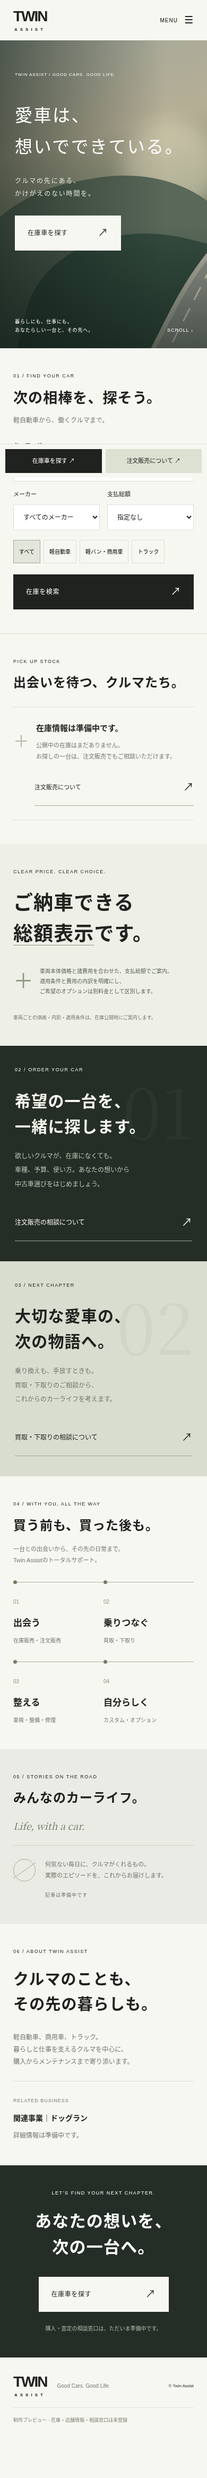
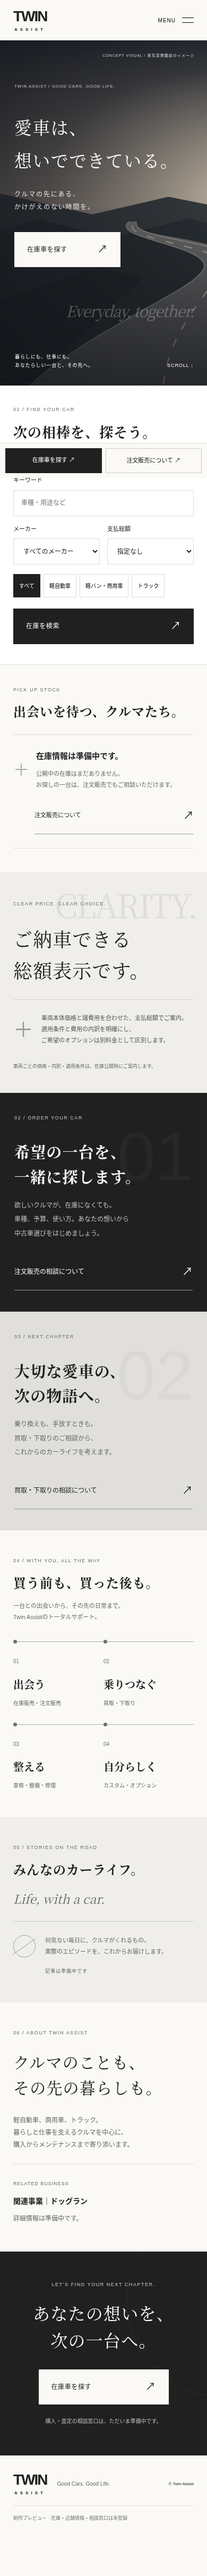
Refine homepage with monochrome editorial design

diff --git a/public/style.css b/public/style.css
@@ -1,1 +1,7 @@
-:root{--ink:#20221f;--paper:#f7f7f2;--muted:#72756d;--line:#dedfd6}*{box-sizing:border-box}html{scroll-behavior:smooth;scroll-padding-top:85px}body{margin:0;background:#e9eae3;color:var(--ink);font-family:'Helvetica Neue',Arial,'Noto Sans JP','Hiragino Kaku Gothic ProN',Meiryo,sans-serif;font-size:14px;line-height:1.9}a{color:inherit;text-decoration:none}button,input,select{font:inherit}button,a,input,select{touch-action:manipulation}button{cursor:pointer}button:focus-visible,a:focus-visible,input:focus-visible,select:focus-visible{outline:3px solid #778d67;outline-offset:5px}h1,h2,h3,p{margin:0}h2{font-size:32px;line-height:1.6;letter-spacing:.04em;font-weight:600}h3{font-size:17px;font-weight:600}p{color:var(--muted)}.site{max-width:1060px;margin:auto;background:var(--paper);position:relative}.side{position:fixed;top:0;bottom:0;width:calc((100vw - 1060px)/2);display:flex;align-items:center;justify-content:space-between;flex-direction:column;padding:45px 15px;color:#52584d}.left{left:0}.right{right:0}.side-brand{font-size:27px;letter-spacing:-2px;line-height:1}.side-brand span{display:block;letter-spacing:4px;font-size:9px;margin-top:9px}.vertical{writing-mode:vertical-rl;font-size:13px;letter-spacing:.24em}.side small{font-size:9px;letter-spacing:.13em;line-height:1.7}.side-link{writing-mode:vertical-rl;letter-spacing:.2em;font-size:12px}.right .vertical{font-size:10px;letter-spacing:.2em}header{height:88px;padding:0 44px;display:flex;align-items:center;gap:34px;background:var(--paper)}.logo{font-size:30px;letter-spacing:-2px;font-weight:750;line-height:1;display:inline-block}.logo span{display:block;font-size:8px;letter-spacing:5px;margin:7px 0 0 2px}header nav{display:flex;gap:23px;margin-left:auto;font-size:11px}.menu-button{border:0;background:none;display:flex;align-items:center;gap:12px;font-size:10px;letter-spacing:.1em;padding:12px 0}.menu-button span{font-size:19px}.menu{padding:20px 44px;background:#eceee6;display:flex;flex-wrap:wrap;gap:20px}.menu[hidden]{display:none}.hero{height:610px;position:relative;overflow:hidden;background:#333c36;color:white}.hero-art{position:absolute;inset:0;background:linear-gradient(170deg,#979d90 0%,#c1b7a0 35%,#777f6e 65%,#29382f 100%)}.hero-art:after{content:'';position:absolute;inset:0;background:linear-gradient(90deg,rgba(12,25,20,.56),transparent 80%),linear-gradient(0deg,rgba(12,25,20,.55),transparent 40%)}.sun{position:absolute;width:180px;height:180px;border-radius:50%;background:#ede4c6;filter:blur(18px);top:75px;right:14%;opacity:.45}.hill{position:absolute;width:140%;height:430px;left:-20%;top:260px;border-radius:48% 46% 0 0;background:#596859;transform:rotate(-10deg)}.hill-two{top:370px;left:10%;background:#344b3e;transform:rotate(14deg)}.road{position:absolute;bottom:-240px;right:15%;width:260px;height:570px;background:#92958c;border-radius:50% 50% 0 0;transform:rotate(27deg);box-shadow:0 0 0 9px #b5b2a2}.road-line{position:absolute;right:27%;bottom:-170px;width:3px;height:450px;background:linear-gradient(#e0d9c6 60%,transparent 60%);background-size:3px 45px;transform:rotate(27deg)}.hero-content{position:relative;z-index:1;padding:76px 65px}.eyebrow{font-size:10px;letter-spacing:.17em;font-weight:500;display:block;line-height:1.7}.hero h1{font-size:49px;line-height:1.65;letter-spacing:.07em;font-weight:500;margin:30px 0 24px}.hero p{color:#e1e6dd;font-size:14px;letter-spacing:.15em;line-height:2}.button{display:inline-flex;align-items:center;justify-content:space-between;gap:40px;padding:15px 24px;min-height:50px;border:0;font-size:12px;letter-spacing:.05em}.button span{font-size:19px;font-weight:400}.white{background:var(--paper);color:var(--ink)}.dark{background:var(--ink);color:white}.hero .button{margin-top:30px;min-width:220px}.hero-bottom{position:absolute;bottom:28px;left:65px;right:45px;display:flex;justify-content:space-between;align-items:end;font-size:10px;line-height:1.8;letter-spacing:.1em;z-index:1}.scroll{font-size:9px}.section{padding:65px}.section-heading h2{margin:13px 0 9px}.section-heading p{font-size:12px}.filters{display:grid;grid-template-columns:1.3fr 1fr 1fr;gap:20px;margin-top:30px}label{display:flex;flex-direction:column;gap:8px;font-size:11px}input,select{border:1px solid var(--line);background:white;border-radius:0;width:100%;height:49px;padding:0 14px;color:var(--ink);font-size:12px}.search-bottom{display:flex;align-items:center;justify-content:space-between;gap:16px;margin-top:20px}.chips{display:flex;gap:7px;flex-wrap:wrap}.chips button{background:none;border:1px solid var(--line);padding:9px 13px;font-size:10px;min-height:44px}.chips button[aria-pressed=true]{background:#e2e6db;border-color:#a1aa94}.result{margin-top:18px;background:#e9ece3;padding:14px;font-size:12px}.inventory{border-top:1px solid var(--line);padding-top:45px}.title-row{display:flex;justify-content:space-between;align-items:end;gap:24px}.title-row h2{margin-top:13px;font-size:28px}.tiny{font-size:9px;letter-spacing:.11em;color:var(--muted)}.empty-stock{display:flex;gap:24px;align-items:center;margin-top:35px;border-top:1px solid var(--line);border-bottom:1px solid var(--line);padding:35px 0}.empty-icon{font-size:40px;color:#b3b9a9;font-weight:200}.empty-stock p{font-size:12px;margin-top:8px}.text-link{display:flex;align-items:center;justify-content:space-between;gap:20px;font-size:12px;border:0;border-bottom:1px solid #a0a798;padding:15px 0;background:none;color:inherit}.empty-stock .text-link{margin-left:auto;white-space:nowrap}.text-link span{font-size:20px}.price{background:#eef0e7;position:relative;padding-top:65px;padding-bottom:55px}.price h2{font-size:49px;line-height:1.55;margin-top:20px;letter-spacing:.03em}.price h2 span{border-bottom:1px solid #8a927e}.price-text{display:flex;align-items:center;gap:30px;margin-top:28px;justify-content:flex-end}.price-text p{font-size:12px;color:#5d6457}.large-plus{font-size:55px;color:#8c9880;font-weight:200}.note{font-size:10px;line-height:1.8}.price .note{margin-top:25px}.consult-grid{display:grid;grid-template-columns:1fr 1fr}.consult{padding:48px 42px 42px;position:relative;overflow:hidden}.buy{background:#252e26;color:#f7f7ee}.sell{background:#d9ddcf}.consult h2{font-size:29px;margin:37px 0 18px;position:relative}.consult p{font-size:12px;line-height:2.2;position:relative}.buy p{color:#bdc5b6}.consult .text-link{margin-top:32px;width:100%;text-align:left}.consult-number{position:absolute;right:15px;top:55px;font-size:120px;line-height:1;font-family:Georgia,serif;color:#ffffff09}.sell .consult-number{color:#4e604310}.services .title-row p{font-size:11px}.timeline{display:grid;grid-template-columns:repeat(4,1fr);gap:0;margin-top:48px}.timeline article{border-top:1px solid #aab29e;position:relative;padding:24px 8px 0 0}.timeline article:before{content:'';width:7px;height:7px;position:absolute;top:-4px;left:0;background:#707e61;border-radius:50%}.timeline span{font-size:10px;color:#879377}.timeline h3{margin-top:12px}.timeline p{font-size:10px;margin-top:7px}.story{background:#e9ebe4}.story-sign{font-family:Georgia,serif;font-style:italic;font-size:22px;color:#6f7867}.story-empty{margin-top:35px;padding:35px 0;display:flex;gap:25px;align-items:center;border-top:1px solid #cdd2c4}.story-line{width:56px;height:56px;border:1px solid #a8b19a;border-radius:50%;position:relative;flex-shrink:0}.story-line:after{content:'';position:absolute;width:68px;height:1px;background:#a8b19a;left:-6px;top:27px;transform:rotate(-35deg)}.story-empty p{font-size:12px}.story-empty .tiny{margin-left:auto}.about h2{font-size:36px;margin:22px 0 28px}.about-columns{display:grid;grid-template-columns:1fr 1fr;gap:35px}.about-columns p{font-size:12px}.related{border-left:1px solid var(--line);padding-left:30px}.related h3{font-size:14px;margin:8px 0}.closing{background:#252e26;color:white;text-align:center;padding-top:70px;padding-bottom:65px}.closing h2{font-size:39px;margin:20px 0 30px}.closing .button{min-width:245px}.closing p{font-size:10px;color:#b0b9a7;margin-top:22px}footer{padding:38px 45px;display:flex;flex-wrap:wrap;align-items:center;gap:28px}footer p{font-size:12px}footer>span{font-size:9px;margin-left:auto}footer small{flex-basis:100%;font-size:9px;color:#777e70;border-top:1px solid var(--line);padding-top:15px}.mobile-cta{display:none}.skip{position:fixed;top:-80px;left:15px;z-index:20;background:white;padding:15px}.skip:focus{top:10px}dialog{border:0;padding:45px;max-width:480px;width:calc(100% - 36px);background:var(--paper);color:var(--ink)}dialog::backdrop{background:#162016aa}dialog h2{font-size:23px;margin:20px 0}dialog p{font-size:12px}dialog .note{margin:15px 0}dialog .button{margin-top:15px}.dialog-close{position:absolute;right:12px;top:8px;font-size:27px;border:0;background:none;width:44px;height:44px}a:hover,.text-link:hover{opacity:.75}.button:hover{opacity:.87}@media(max-width:1320px){.side{display:none}}@media(max-width:767px){body{background:var(--paper);font-size:13px}html{scroll-padding-top:25px}.site{width:100%}header{height:76px;padding:0 25px}.logo{font-size:28px}header nav{display:none}.menu-button{margin-left:auto}.menu{padding:22px 25px;flex-direction:column;gap:10px}.menu a{padding:8px 0}.hero{height:580px}.hero-content{padding:58px 28px}.hero .eyebrow{font-size:8px;letter-spacing:.12em}.hero h1{font-size:clamp(30px,8.5vw,42px);line-height:1.8;margin-top:40px;margin-bottom:22px}.hero p{font-size:12px}.hero .button{margin-top:29px;min-width:200px}.hero-bottom{left:28px;right:25px;bottom:26px;font-size:9px}.hero-art{background:linear-gradient(165deg,#a4a99b,#b5ae95 33%,#5b6c55 70%,#283e30)}.sun{right:-20px;top:150px}.road{right:-40%;bottom:-270px;width:230px;transform:rotate(27deg)}.road-line{right:8%;bottom:-150px}.section{padding:45px 25px}h2{font-size:26px}.eyebrow{font-size:9px}.section-heading h2{font-size:27px}.filters{grid-template-columns:1fr 1fr;gap:14px;margin-top:25px}.filters label:first-child{grid-column:1/-1}.search-bottom{flex-direction:column;align-items:stretch;margin-top:18px}.chips{gap:6px}.chips button{padding:8px 10px;font-size:10px}.search-bottom .button{width:100%;margin-top:5px}.title-row{align-items:start}.title-row h2{font-size:24px}.inventory .title-row>.tiny{display:none}.empty-stock{flex-wrap:wrap;gap:13px;padding:26px 0;margin-top:25px}.empty-icon{font-size:30px}.empty-stock h3{font-size:15px}.empty-stock p{font-size:11px}.empty-stock .text-link{margin-left:40px;width:calc(100% - 40px);font-size:11px}.price h2{font-size:37px;margin-top:23px}.price-text{gap:12px;justify-content:start;margin-top:24px}.large-plus{font-size:38px}.price-text p{font-size:10px}.price .note{font-size:9px}.consult-grid{grid-template-columns:1fr}.consult{padding:38px 28px}.consult h2{font-size:30px;margin-top:27px}.consult-number{right:25px;font-size:130px}.consult .text-link{margin-top:25px}.services .title-row{display:block}.services .title-row p{margin-top:15px}.timeline{grid-template-columns:1fr 1fr;row-gap:30px;margin-top:30px}.timeline h3{font-size:17px}.timeline p{font-size:10px}.story .title-row{display:block}.story-sign{font-size:18px;display:block;margin-top:15px}.story-empty{flex-wrap:wrap;gap:18px;padding:25px 0 0;margin-top:20px}.story-line{width:42px;height:42px}.story-line:after{width:52px;top:20px}.story-empty p{font-size:11px}.story-empty .tiny{width:100%;margin-left:60px}.about h2{font-size:29px}.about-columns{grid-template-columns:1fr;gap:25px}.related{border-left:0;border-top:1px solid var(--line);padding:23px 0 0}.closing h2{font-size:31px}footer{padding:32px 25px 100px;gap:19px}footer p{font-size:10px}footer>span{font-size:8px}.mobile-cta{position:fixed;bottom:0;left:0;right:0;display:grid;grid-template-columns:1fr 1fr;background:var(--paper);padding:9px 10px calc(9px + env(safe-area-inset-bottom));z-index:5;border-top:1px solid var(--line);gap:7px}.mobile-cta a{text-align:center;font-size:11px;padding:12px 5px;background:var(--ink);color:white}.mobile-cta a+ a{background:#dce1d2;color:var(--ink)}dialog{padding:35px 25px}}@media(prefers-reduced-motion:reduce){html{scroll-behavior:auto}}
+:root{--ink:#202020;--paper:#faf9f6;--muted:#666666;--line:#dddcd8}*{box-sizing:border-box}html{scroll-behavior:smooth;scroll-padding-top:85px}body{margin:0;background:#ededeb;color:var(--ink);font-family:'Helvetica Neue',Arial,'Noto Sans JP','Hiragino Kaku Gothic ProN',Meiryo,sans-serif;font-size:14px;line-height:1.9}a{color:inherit;text-decoration:none}button,input,select{font:inherit}button,a,input,select{touch-action:manipulation}button{cursor:pointer}button:focus-visible,a:focus-visible,input:focus-visible,select:focus-visible{outline:3px solid #707070;outline-offset:5px}h1,h2,h3,p{margin:0}h2{font-size:32px;line-height:1.6;letter-spacing:.04em;font-weight:600}h3{font-size:17px;font-weight:600}p{color:var(--muted)}.site{max-width:1060px;margin:auto;background:var(--paper);position:relative}.side{position:fixed;top:0;bottom:0;width:calc((100vw - 1060px)/2);display:flex;align-items:center;justify-content:space-between;flex-direction:column;padding:45px 15px;color:#595959}.left{left:0}.right{right:0}.side-brand{font-size:27px;letter-spacing:-2px;line-height:1}.side-brand span{display:block;letter-spacing:4px;font-size:9px;margin-top:9px}.vertical{writing-mode:vertical-rl;font-size:13px;letter-spacing:.24em}.side small{font-size:9px;letter-spacing:.13em;line-height:1.7}.side-link{writing-mode:vertical-rl;letter-spacing:.2em;font-size:12px}.right .vertical{font-size:10px;letter-spacing:.2em}header{height:88px;padding:0 44px;display:flex;align-items:center;gap:34px;background:var(--paper)}.logo{font-size:30px;letter-spacing:-2px;font-weight:750;line-height:1;display:inline-block}.logo span{display:block;font-size:8px;letter-spacing:5px;margin:7px 0 0 2px}header nav{display:flex;gap:23px;margin-left:auto;font-size:11px}.menu-button{border:0;background:none;display:flex;align-items:center;gap:12px;font-size:10px;letter-spacing:.1em;padding:12px 0}.menu-button span{font-size:19px}.menu{padding:20px 44px;background:#eeedeb;display:flex;flex-wrap:wrap;gap:20px}.menu[hidden]{display:none}.hero{height:610px;position:relative;overflow:hidden;background:#333c36;color:white}.hero-art{position:absolute;inset:0;background:linear-gradient(170deg,#979d90 0%,#c1b7a0 35%,#777f6e 65%,#29382f 100%)}.hero-art:after{content:'';position:absolute;inset:0;background:linear-gradient(90deg,rgba(12,25,20,.56),transparent 80%),linear-gradient(0deg,rgba(12,25,20,.55),transparent 40%)}.sun{position:absolute;width:180px;height:180px;border-radius:50%;background:#ede4c6;filter:blur(18px);top:75px;right:14%;opacity:.45}.hill{position:absolute;width:140%;height:430px;left:-20%;top:260px;border-radius:48% 46% 0 0;background:#596859;transform:rotate(-10deg)}.hill-two{top:370px;left:10%;background:#344b3e;transform:rotate(14deg)}.road{position:absolute;bottom:-240px;right:15%;width:260px;height:570px;background:#92958c;border-radius:50% 50% 0 0;transform:rotate(27deg);box-shadow:0 0 0 9px #b5b2a2}.road-line{position:absolute;right:27%;bottom:-170px;width:3px;height:450px;background:linear-gradient(#e0d9c6 60%,transparent 60%);background-size:3px 45px;transform:rotate(27deg)}.hero-content{position:relative;z-index:1;padding:76px 65px}.eyebrow{font-size:10px;letter-spacing:.17em;font-weight:500;display:block;line-height:1.7}.hero h1{font-size:49px;line-height:1.65;letter-spacing:.07em;font-weight:500;margin:30px 0 24px}.hero p{color:#e1e6dd;font-size:14px;letter-spacing:.15em;line-height:2}.button{display:inline-flex;align-items:center;justify-content:space-between;gap:40px;padding:15px 24px;min-height:50px;border:0;font-size:12px;letter-spacing:.05em}.button span{font-size:19px;font-weight:400}.white{background:var(--paper);color:var(--ink)}.dark{background:var(--ink);color:white}.hero .button{margin-top:30px;min-width:220px}.hero-bottom{position:absolute;bottom:28px;left:65px;right:45px;display:flex;justify-content:space-between;align-items:end;font-size:10px;line-height:1.8;letter-spacing:.1em;z-index:1}.scroll{font-size:9px}.section{padding:65px}.section-heading h2{margin:13px 0 9px}.section-heading p{font-size:12px}.filters{display:grid;grid-template-columns:1.3fr 1fr 1fr;gap:20px;margin-top:30px}label{display:flex;flex-direction:column;gap:8px;font-size:11px}input,select{border:1px solid var(--line);background:white;border-radius:0;width:100%;height:49px;padding:0 14px;color:var(--ink);font-size:12px}.search-bottom{display:flex;align-items:center;justify-content:space-between;gap:16px;margin-top:20px}.chips{display:flex;gap:7px;flex-wrap:wrap}.chips button{background:none;border:1px solid var(--line);padding:9px 13px;font-size:10px;min-height:44px}.chips button[aria-pressed=true]{background:#e4e4e1;border-color:#999999}.result{margin-top:18px;background:#efeeeb;padding:14px;font-size:12px}.inventory{border-top:1px solid var(--line);padding-top:45px}.title-row{display:flex;justify-content:space-between;align-items:end;gap:24px}.title-row h2{margin-top:13px;font-size:28px}.tiny{font-size:9px;letter-spacing:.11em;color:var(--muted)}.empty-stock{display:flex;gap:24px;align-items:center;margin-top:35px;border-top:1px solid var(--line);border-bottom:1px solid var(--line);padding:35px 0}.empty-icon{font-size:40px;color:#aaaaaa;font-weight:200}.empty-stock p{font-size:12px;margin-top:8px}.text-link{display:flex;align-items:center;justify-content:space-between;gap:20px;font-size:12px;border:0;border-bottom:1px solid #999999;padding:15px 0;background:none;color:inherit}.empty-stock .text-link{margin-left:auto;white-space:nowrap}.text-link span{font-size:20px}.price{background:#efeeeb;position:relative;padding-top:65px;padding-bottom:55px}.price h2{font-size:49px;line-height:1.55;margin-top:20px;letter-spacing:.03em}.price h2 span{border-bottom:1px solid #8d8d8d}.price-text{display:flex;align-items:center;gap:30px;margin-top:28px;justify-content:flex-end}.price-text p{font-size:12px;color:#555555}.large-plus{font-size:55px;color:#999999;font-weight:200}.note{font-size:10px;line-height:1.8}.price .note{margin-top:25px}.consult-grid{display:grid;grid-template-columns:1fr 1fr}.consult{padding:48px 42px 42px;position:relative;overflow:hidden}.buy{background:#202020;color:#faf9f6}.sell{background:#e0dfdc}.consult h2{font-size:29px;margin:37px 0 18px;position:relative}.consult p{font-size:12px;line-height:2.2;position:relative}.buy p{color:#c4c4c4}.consult .text-link{margin-top:32px;width:100%;text-align:left}.consult-number{position:absolute;right:15px;top:55px;font-size:120px;line-height:1;font-family:Georgia,serif;color:#ffffff09}.sell .consult-number{color:#33333310}.services .title-row p{font-size:11px}.timeline{display:grid;grid-template-columns:repeat(4,1fr);gap:0;margin-top:48px}.timeline article{border-top:1px solid #aaaaaa;position:relative;padding:24px 8px 0 0}.timeline article:before{content:'';width:7px;height:7px;position:absolute;top:-4px;left:0;background:#707070;border-radius:50%}.timeline span{font-size:10px;color:#707070}.timeline h3{margin-top:12px}.timeline p{font-size:10px;margin-top:7px}.story{background:#eae9e6}.story-sign{font-family:Georgia,serif;font-style:italic;font-size:22px;color:#6b6b6b}.story-empty{margin-top:35px;padding:35px 0;display:flex;gap:25px;align-items:center;border-top:1px solid #cccccc}.story-line{width:56px;height:56px;border:1px solid #a0a0a0;border-radius:50%;position:relative;flex-shrink:0}.story-line:after{content:'';position:absolute;width:68px;height:1px;background:#a0a0a0;left:-6px;top:27px;transform:rotate(-35deg)}.story-empty p{font-size:12px}.story-empty .tiny{margin-left:auto}.about h2{font-size:36px;margin:22px 0 28px}.about-columns{display:grid;grid-template-columns:1fr 1fr;gap:35px}.about-columns p{font-size:12px}.related{border-left:1px solid var(--line);padding-left:30px}.related h3{font-size:14px;margin:8px 0}.closing{background:#202020;color:white;text-align:center;padding-top:70px;padding-bottom:65px}.closing h2{font-size:39px;margin:20px 0 30px}.closing .button{min-width:245px}.closing p{font-size:10px;color:#bfbfbf;margin-top:22px}footer{padding:38px 45px;display:flex;flex-wrap:wrap;align-items:center;gap:28px}footer p{font-size:12px}footer>span{font-size:9px;margin-left:auto}footer small{flex-basis:100%;font-size:9px;color:#707070;border-top:1px solid var(--line);padding-top:15px}.mobile-cta{display:none}.skip{position:fixed;top:-80px;left:15px;z-index:20;background:white;padding:15px}.skip:focus{top:10px}dialog{border:0;padding:45px;max-width:480px;width:calc(100% - 36px);background:var(--paper);color:var(--ink)}dialog::backdrop{background:#161616aa}dialog h2{font-size:23px;margin:20px 0}dialog p{font-size:12px}dialog .note{margin:15px 0}dialog .button{margin-top:15px}.dialog-close{position:absolute;right:12px;top:8px;font-size:27px;border:0;background:none;width:44px;height:44px}a:hover,.text-link:hover{opacity:.75}.button:hover{opacity:.87}@media(max-width:1320px){.side{display:none}}@media(max-width:767px){body{background:var(--paper);font-size:13px}html{scroll-padding-top:25px}.site{width:100%}header{height:76px;padding:0 25px}.logo{font-size:28px}header nav{display:none}.menu-button{margin-left:auto}.menu{padding:22px 25px;flex-direction:column;gap:10px}.menu a{padding:8px 0}.hero{height:580px}.hero-content{padding:58px 28px}.hero .eyebrow{font-size:8px;letter-spacing:.12em}.hero h1{font-size:clamp(30px,8.5vw,42px);line-height:1.8;margin-top:40px;margin-bottom:22px}.hero p{font-size:12px}.hero .button{margin-top:29px;min-width:200px}.hero-bottom{left:28px;right:25px;bottom:26px;font-size:9px}.hero-art{background:linear-gradient(165deg,#a4a99b,#b5ae95 33%,#5b6c55 70%,#283e30)}.sun{right:-20px;top:150px}.road{right:-40%;bottom:-270px;width:230px;transform:rotate(27deg)}.road-line{right:8%;bottom:-150px}.section{padding:45px 25px}h2{font-size:26px}.eyebrow{font-size:9px}.section-heading h2{font-size:27px}.filters{grid-template-columns:1fr 1fr;gap:14px;margin-top:25px}.filters label:first-child{grid-column:1/-1}.search-bottom{flex-direction:column;align-items:stretch;margin-top:18px}.chips{gap:6px}.chips button{padding:8px 10px;font-size:10px}.search-bottom .button{width:100%;margin-top:5px}.title-row{align-items:start}.title-row h2{font-size:24px}.inventory .title-row>.tiny{display:none}.empty-stock{flex-wrap:wrap;gap:13px;padding:26px 0;margin-top:25px}.empty-icon{font-size:30px}.empty-stock h3{font-size:15px}.empty-stock p{font-size:11px}.empty-stock .text-link{margin-left:40px;width:calc(100% - 40px);font-size:11px}.price h2{font-size:37px;margin-top:23px}.price-text{gap:12px;justify-content:start;margin-top:24px}.large-plus{font-size:38px}.price-text p{font-size:10px}.price .note{font-size:9px}.consult-grid{grid-template-columns:1fr}.consult{padding:38px 28px}.consult h2{font-size:30px;margin-top:27px}.consult-number{right:25px;font-size:130px}.consult .text-link{margin-top:25px}.services .title-row{display:block}.services .title-row p{margin-top:15px}.timeline{grid-template-columns:1fr 1fr;row-gap:30px;margin-top:30px}.timeline h3{font-size:17px}.timeline p{font-size:10px}.story .title-row{display:block}.story-sign{font-size:18px;display:block;margin-top:15px}.story-empty{flex-wrap:wrap;gap:18px;padding:25px 0 0;margin-top:20px}.story-line{width:42px;height:42px}.story-line:after{width:52px;top:20px}.story-empty p{font-size:11px}.story-empty .tiny{width:100%;margin-left:60px}.about h2{font-size:29px}.about-columns{grid-template-columns:1fr;gap:25px}.related{border-left:0;border-top:1px solid var(--line);padding:23px 0 0}.closing h2{font-size:31px}footer{padding:32px 25px 100px;gap:19px}footer p{font-size:10px}footer>span{font-size:8px}.mobile-cta{position:fixed;bottom:0;left:0;right:0;display:grid;grid-template-columns:1fr 1fr;background:var(--paper);padding:9px 10px calc(9px + env(safe-area-inset-bottom));z-index:5;border-top:1px solid var(--line);gap:7px}.mobile-cta a{text-align:center;font-size:11px;padding:12px 5px;background:var(--ink);color:white}.mobile-cta a+ a{background:#e1e0dc;color:var(--ink)}dialog{padding:35px 25px}}@media(prefers-reduced-motion:reduce){html{scroll-behavior:auto}}
+
+/* Editorial design revision */
+.hero{height:680px;background:#17191c}.hero-art{background:#17191c url('/journey.svg') center/cover no-repeat}.hero-art>div{display:none}.hero-art:after{background:linear-gradient(90deg,rgba(10,12,15,.7),rgba(10,12,15,.06)),linear-gradient(0deg,rgba(10,12,15,.65),transparent 40%)}.hero-content{padding-top:92px}.hero h1{font-family:'Yu Mincho','Hiragino Mincho ProN',serif;font-size:54px;font-weight:500;letter-spacing:.1em;line-height:1.7;margin-top:35px}.hero p{color:#e5e5e5}.hero .eyebrow{color:#dedede}.hero-bottom{bottom:35px}.hero .button{margin-top:36px}.hero-caption{position:absolute;right:38px;top:30px;z-index:1;font-size:8px;letter-spacing:.15em;color:#ddd}.hero-word{position:absolute;right:30px;bottom:85px;z-index:1;font-family:Georgia,serif;font-size:75px;font-style:italic;color:#ffffff45;letter-spacing:-.05em}.search{padding-top:50px;padding-bottom:50px;background:white}.search .section-heading{display:grid;grid-template-columns:1fr auto;align-items:end}.search .section-heading .eyebrow{grid-column:1/-1}.search .section-heading h2{margin-bottom:0}.search .section-heading p{padding-bottom:5px}.section-heading h2,.title-row h2,.about h2,.closing h2,.consult h2{font-family:'Yu Mincho','Hiragino Mincho ProN',serif}.inventory{padding-top:55px;padding-bottom:70px}.price{overflow:hidden;padding-top:75px;padding-bottom:60px}.price:before{content:'CLARITY.';position:absolute;right:40px;top:35px;font-family:Georgia,serif;font-size:110px;letter-spacing:-.05em;color:#deddd8;line-height:1}.price>*{position:relative}.price h2{font-family:'Yu Mincho','Hiragino Mincho ProN',serif;font-size:56px;font-weight:500;line-height:1.6}.price h2 span{border:0}.price-text{padding-top:25px;border-top:1px solid #d1d0cc;margin-left:36%;margin-top:35px;gap:15px}.price-text .large-plus{font-size:38px}.consult{padding-top:54px;padding-bottom:48px}.consult h2{font-size:32px;margin-top:48px}.consult-number{font-family:Arial,sans-serif;font-weight:200;font-size:140px;top:55px;color:#ffffff08}.sell .consult-number{color:#00000007}.services{padding-top:80px;padding-bottom:80px}.timeline{margin-top:55px}.timeline h3{font-family:'Yu Mincho','Hiragino Mincho ProN',serif;font-size:21px}.story{background:#efeeeb;padding-top:70px;padding-bottom:70px}.story-sign{font-size:29px}.about{padding-top:80px;padding-bottom:80px}.about h2{font-size:40px;font-weight:500}.closing{position:relative;overflow:hidden;padding-top:80px;padding-bottom:80px}.closing:before{content:'';position:absolute;width:520px;height:520px;border:1px solid #ffffff0f;border-radius:50%;top:-80px;right:-130px;pointer-events:none}.closing h2{font-size:44px;font-weight:500}.side{background:linear-gradient(90deg,#e5e5e2,#f0f0ed)}.right{background:linear-gradient(90deg,#f0f0ed,#e5e5e2)}.side-brand{font-weight:700}.menu-button span{font-size:0;width:22px;height:10px;border-top:1px solid;border-bottom:1px solid}.button,.text-link{transition:background .18s,color .18s,opacity .18s}.chips button[aria-pressed=true]{background:#202020;color:white;border-color:#202020}.mobile-cta a+a{border:1px solid #ccc;background:#faf9f6}.text-link{min-height:48px}.eyebrow{color:#666}.hero .eyebrow,.buy .eyebrow,.closing .eyebrow{color:#ccc}
+@media(max-width:767px){.hero{height:650px}.hero-art{background-position:58% center}.hero-art:after{background:linear-gradient(90deg,#11131899,#11131810),linear-gradient(0deg,#11131888,transparent 50%)}.hero-content{padding:80px 27px 0}.hero h1{font-size:clamp(29px,8.4vw,40px);letter-spacing:.05em;line-height:1.9;margin-top:38px}.hero .button{margin-top:35px}.hero-word{font-size:50px;bottom:95px;right:24px}.hero-caption{font-size:7px;right:24px;top:22px}.hero-bottom{bottom:30px}.search{padding-top:38px;padding-bottom:38px}.search .section-heading{display:block}.search .section-heading h2{font-size:26px;margin-bottom:7px}.inventory{padding-top:40px;padding-bottom:45px}.price{padding-top:52px;padding-bottom:42px}.price:before{font-size:62px;top:29px;right:20px;color:#deddd8}.price h2{font-size:36px;margin-top:28px;line-height:1.65}.price-text{margin-left:0;margin-top:25px;padding-top:20px}.price-text p{font-size:11px}.consult{padding:40px 27px}.consult h2{font-size:29px;margin-top:33px}.consult-number{font-size:130px}.services,.story,.about{padding-top:50px;padding-bottom:50px}.timeline{margin-top:35px}.timeline h3{font-size:20px}.story-sign{font-size:23px}.about h2{font-size:30px}.closing{padding-top:55px;padding-bottom:55px}.closing h2{font-size:32px}.closing:before{width:350px;height:350px;right:-200px}.hero .eyebrow{font-size:8px}}
+@media(prefers-reduced-motion:reduce){.button,.text-link{transition:none}}
+.hero-word{white-space:nowrap;pointer-events:none}@media(max-width:767px){.hero-word{font-size:29px;right:25px;bottom:114px}}

diff --git a/public/index.html b/public/index.html
@@ -5,7 +5,7 @@
 <aside class="side right"><span class="vertical">YOUR CAR. YOUR STORY.</span><a href="#stock" class="side-link">在庫を探す ↗</a><small>SCROLL TO EXPLORE ↓</small></aside>
 <div class="site"><header><a class="logo" href="#" aria-label="Twin Assist ホーム">TWIN<span>ASSIST</span></a><nav aria-label="主要ナビゲーション"><a href="#stock">在庫を探す</a><a href="#services">サービス</a><a href="#about">私たちについて</a></nav><button class="menu-button" aria-expanded="false" aria-controls="menu">MENU <span>☰</span></button></header>
 <nav id="menu" class="menu" aria-label="メニュー" hidden><a href="#stock">在庫を探す</a><a href="#buy">注文販売</a><a href="#sell">買取・査定</a><a href="#services">車検・整備</a><a href="#story">みんなのカーライフ</a><a href="#about">会社・事業案内</a></nav>
-<main id="main"><section class="hero" aria-labelledby="hero-title"><div class="hero-art" aria-hidden="true"><div class="sun"></div><div class="hill hill-one"></div><div class="hill hill-two"></div><div class="road"></div><div class="road-line"></div></div><div class="hero-content"><span class="eyebrow">TWIN ASSIST / GOOD CARS. GOOD LIFE.</span><h1 id="hero-title">愛車は、<br>想いでできている。</h1><p>クルマの先にある、<br>かけがえのない時間を。</p><a class="button white" href="#stock">在庫車を探す <span>↗</span></a></div><div class="hero-bottom"><span>暮らしにも、仕事にも。<br>あなたらしい一台と、その先へ。</span><span class="scroll">SCROLL ↓</span></div></section>
+<main id="main"><section class="hero" aria-labelledby="hero-title"><div class="hero-art" aria-hidden="true"><div class="sun"></div><div class="hill hill-one"></div><div class="hill hill-two"></div><div class="road"></div><div class="road-line"></div></div><span class="hero-caption">CONCEPT VISUAL / 実写真掲載前のイメージ</span><span class="hero-word" aria-hidden="true">Everyday, together.</span><div class="hero-content"><span class="eyebrow">TWIN ASSIST / GOOD CARS. GOOD LIFE.</span><h1 id="hero-title">愛車は、<br>想いでできている。</h1><p>クルマの先にある、<br>かけがえのない時間を。</p><a class="button white" href="#stock">在庫車を探す <span>↗</span></a></div><div class="hero-bottom"><span>暮らしにも、仕事にも。<br>あなたらしい一台と、その先へ。</span><span class="scroll">SCROLL ↓</span></div></section>
 <section class="search section" id="stock"><div class="section-heading"><span class="eyebrow">01 / FIND YOUR CAR</span><h2>次の相棒を、探そう。</h2><p>軽自動車から、働くクルマまで。</p></div><form id="search-form"><div class="filters"><label>キーワード<input name="keyword" placeholder="車種・用途など"></label><label>メーカー<select name="maker"><option value="">すべてのメーカー</option></select></label><label>支払総額<select name="price"><option value="">指定なし</option></select></label></div><div class="search-bottom"><div class="chips" aria-label="用途で探す"><button type="button" data-category="all" aria-pressed="true">すべて</button><button type="button" data-category="kei" aria-pressed="false">軽自動車</button><button type="button" data-category="van" aria-pressed="false">軽バン・商用車</button><button type="button" data-category="truck" aria-pressed="false">トラック</button></div><button class="button dark" type="submit">在庫を検索 <span>↗</span></button></div><p id="search-result" class="result" role="status" hidden></p></form></section>
 <section class="inventory section"><div class="title-row"><div><span class="eyebrow">PICK UP STOCK</span><h2>出会いを待つ、クルマたち。</h2></div><span class="tiny">NEW & RECOMMENDED</span></div><div class="empty-stock"><span class="empty-icon" aria-hidden="true">＋</span><div><h3>在庫情報は準備中です。</h3><p>公開中の在庫はまだありません。<br>お探しの一台は、注文販売でもご相談いただけます。</p></div><a href="#buy" class="text-link">注文販売について <span>↗</span></a></div></section>
 <section class="price section"><span class="eyebrow">CLEAR PRICE. CLEAR CHOICE.</span><h2>ご納車できる<br><span>総額表示</span>です。</h2><div class="price-text"><span class="large-plus" aria-hidden="true">＋</span><p>車両本体価格と諸費用を合わせた、支払総額でご案内。<br>適用条件と費用の内訳を明確にし、<br>ご希望のオプションは別料金として区別します。</p></div><p class="note">車両ごとの価格・内訳・適用条件は、在庫公開時にご案内します。</p></section>

diff --git a/README.md b/README.md
@@ -15,7 +15,7 @@ npm run dev
 
 ## 現在の範囲
 
-レスポンシブTOP、PC固定サイド、スマホ固定CTA、メニュー、用途選択、検索の空状態、相談窓口未登録の案内を実装。ヒーローはCSSの抽象風景で、実店舗や実車の写真ではありません。検索の実在庫連携・LINE・送信フォーム・CMS・各下層ページは未実装です。現在のページはnoindexにしています。
+レスポンシブTOP、PC固定サイド、スマホ固定CTA、メニュー、用途選択、検索の空状態、相談窓口未登録の案内を実装。ヒーローはSVGの抽象風景で、実店舗や実車の写真ではありません。検索の実在庫連携・LINE・送信フォーム・CMS・各下層ページは未実装です。現在のページはnoindexにしています。
 
 ## プレビュー画像
 
